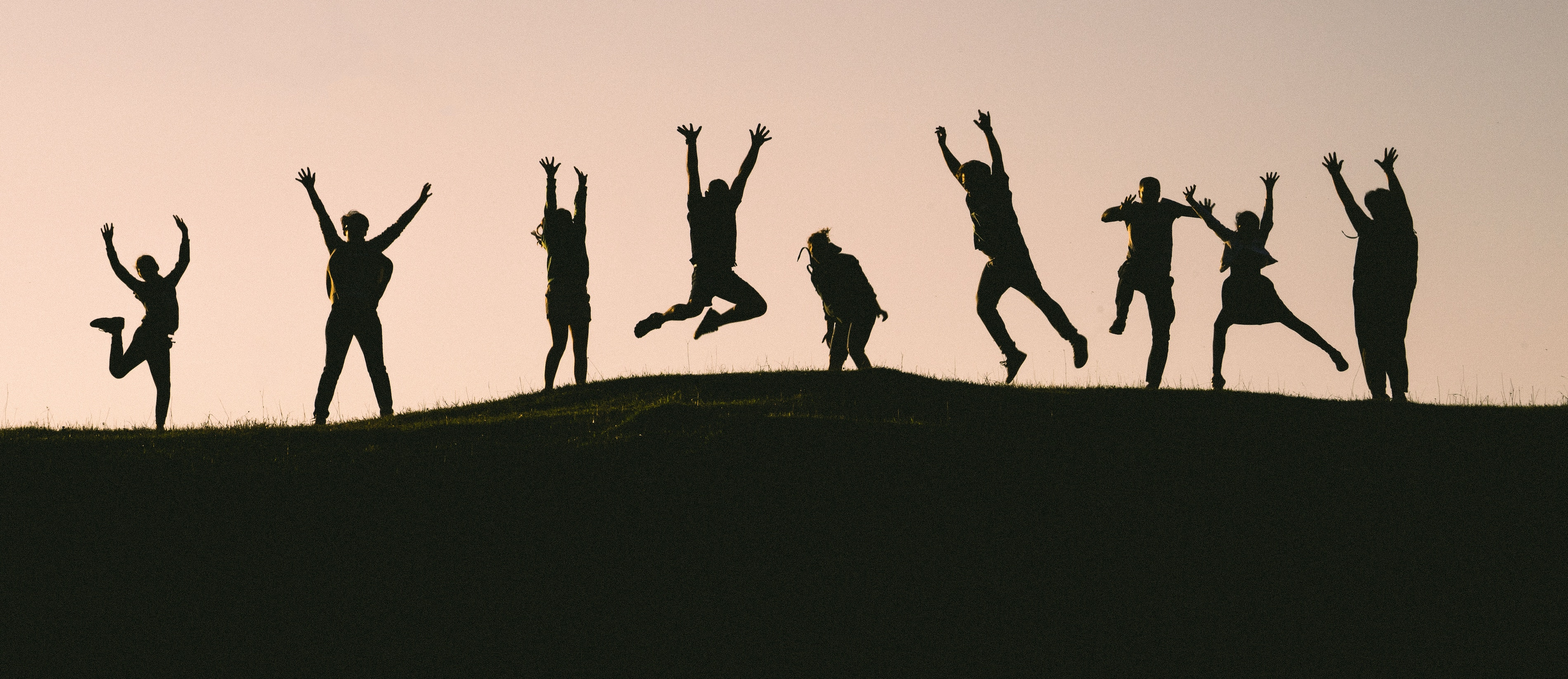
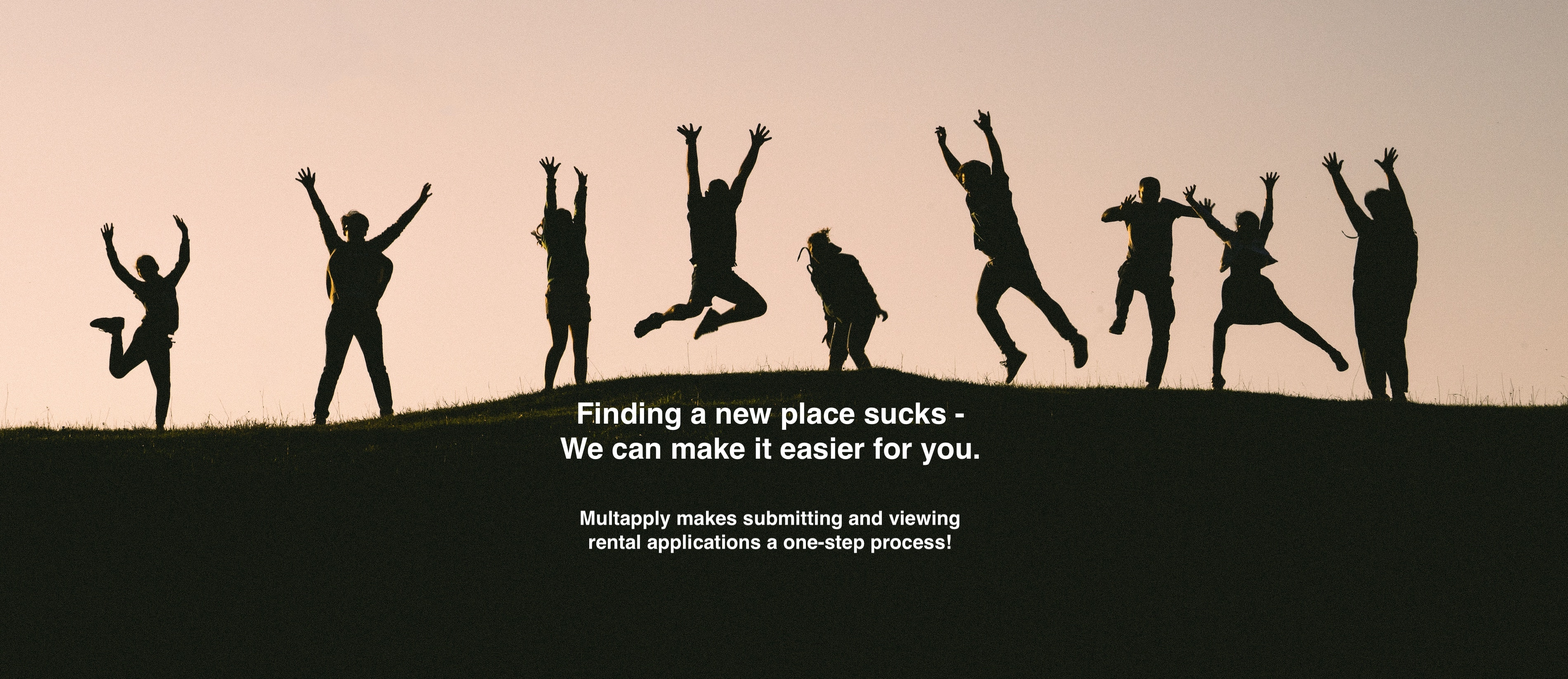
tried some styling stuff

Changed region(s): [[0.3416, 0.5887, 0.6211, 0.6817], [0.3726, 0.7436, 0.6211, 0.8056]]

diff --git a/client/src/HeroBanner.js b/client/src/HeroBanner.js
@@ -1,6 +1,6 @@
 import React, { Component } from 'react';
-import { Link } from 'react-router-dom';
 import Grid from '@material-ui/core/Grid';
+
 
 class HeroBanner extends Component {
   
@@ -9,13 +9,23 @@ class HeroBanner extends Component {
       <div>
         <Grid container spacing={24}>
           <Grid item xs={12}>
-          <img class="hero-image" src="../img/hero-image.jpg" />
           <div class="hero-banner">
-          <h1>Finding a new place sucks - <br />
-          We can make it easier for you.</h1>
-          <p>Seriously you guys this is some quality filler text right here</p></div>
-          </Grid>
-        </Grid>
+            <img class="hero-image" src="../img/hero-image.jpg" />
+          </div>
+            </Grid>
+            <Grid item xs={6}>
+            <img class="rental-pic" src="https://www.fillmurray.com/200/300" />
+            </Grid>
+            <Grid item xs={6}>
+              <p>Renter blurb, and whatnots, more words or whatever</p>
+            </Grid>
+            <Grid item xs={6}>
+            <p>Property manager blurb and stuff, lots of words yo</p>
+                </Grid>
+                <Grid item xs={6}>
+            <img class="prop-man-pic" src="https://www.fillmurray.com/200/300" />
+            </Grid>
+            </Grid>
       </div>
     )
   }

diff --git a/client/src/App.js b/client/src/App.js
@@ -89,6 +89,7 @@ class App extends Component {
             <div>
               <Navbar liftTokenToState={this.liftTokenToState} logout={this.logout} />
                 <HeroBanner />
+                {/* <LandingInfo /> */}
               <Footer />
               </div>
         </Router>

diff --git a/client/src/Dashboard.js b/client/src/Dashboard.js
@@ -11,7 +11,7 @@ class Dashboard extends Component {
       <div>
       <Grid container spacing={24}>
         <Grid item xs={12}>
-          <h1>DASHBOARD</h1>
+          <h2>DASHBOARD</h2>
         </Grid>
         <Grid item xs={12} sm={6}>
           <img src="../img/smiley.png" /><br />

diff --git a/client/src/App.css b/client/src/App.css
@@ -19,13 +19,10 @@ body, html {
   background-position: center;
   background-repeat: no-repeat;
   background-size: cover;
-  position: absolute;
 }
 
-.hero-banner {
+h2 {
   text-align: center;
-  color: white;
-  position: absolute;
 }
 
 
